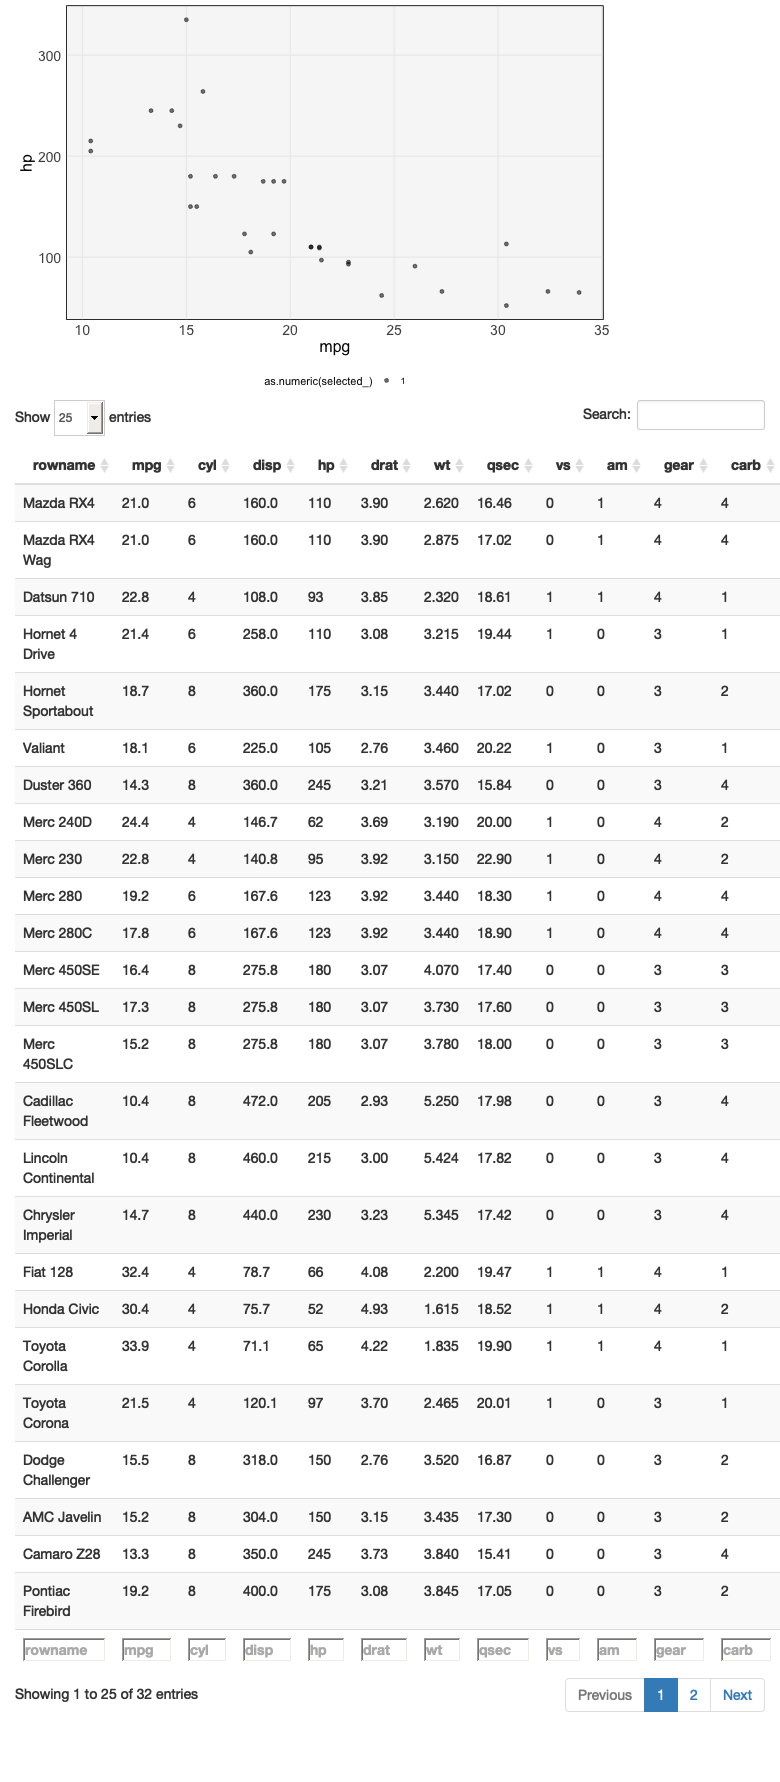
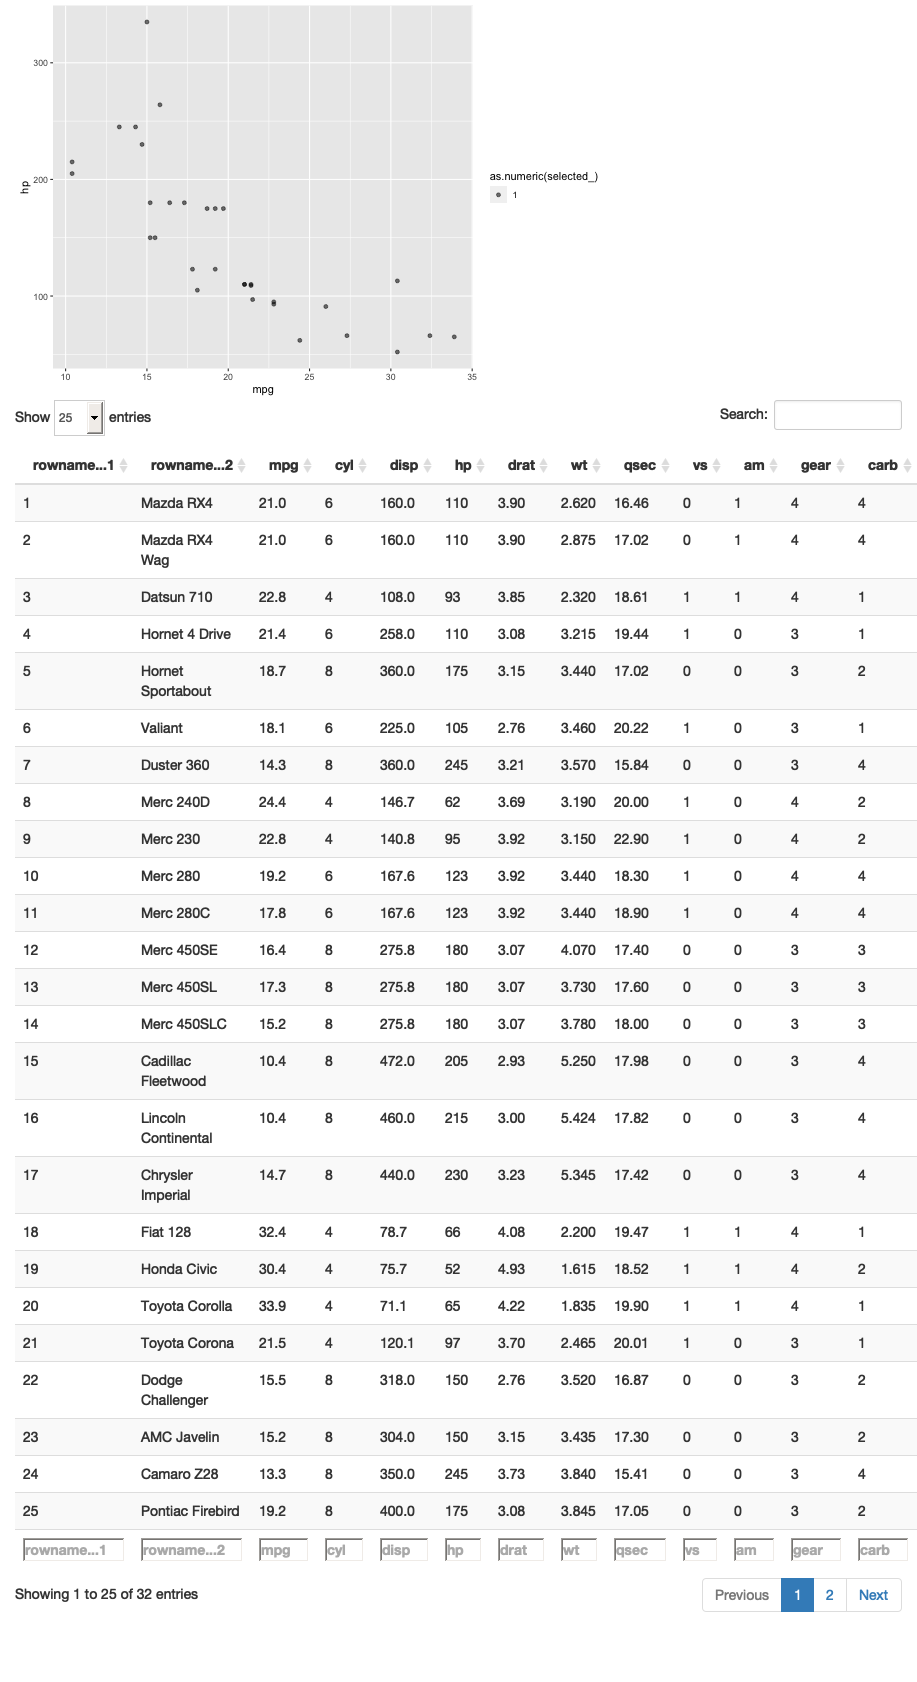
update links

diff --git a/docs/posts/2022-02-16-week05-02/index.html b/docs/posts/2022-02-16-week05-02/index.html
@@ -117,7 +117,7 @@ code span.wa { color: #5e5e5e; font-style: italic; } /* Warning */
 <!--/radix_placeholder_rmarkdown_metadata-->
   
   <script type="text/json" id="radix-resource-manifest">
-  {"type":"character","attributes":{},"value":["app3.png","app4.png","apps/app1.R","apps/app2.R","apps/app3.R","apps/app4.R","apps/app5.R","apps-pre/app1.R","apps-pre/app2.R","apps-pre/app3.R","apps-pre/app4.R","apps-pre/app5.R","apps-pre/app6.R","week05-02_files/anchor-4.2.2/anchor.min.js","week05-02_files/bowser-1.9.3/bowser.min.js","week05-02_files/distill-2.2.21/template.v2.js","week05-02_files/figure-html5/unnamed-chunk-4-1.png","week05-02_files/figure-html5/unnamed-chunk-6-1.png","week05-02_files/header-attrs-2.11/header-attrs.js","week05-02_files/jquery-3.6.0/jquery-3.6.0.js","week05-02_files/jquery-3.6.0/jquery-3.6.0.min.js","week05-02_files/jquery-3.6.0/jquery-3.6.0.min.map","week05-02_files/popper-2.6.0/popper.min.js","week05-02_files/tippy-6.2.7/tippy-bundle.umd.min.js","week05-02_files/tippy-6.2.7/tippy-light-border.css","week05-02_files/tippy-6.2.7/tippy.css","week05-02_files/tippy-6.2.7/tippy.umd.min.js","week05-02_files/webcomponents-2.0.0/webcomponents.js"]}
+  {"type":"character","attributes":{},"value":["app3.png","app4.png","apps/app3.R","apps/app4.R","apps-pre/app1.R","apps-pre/app2.R","apps-pre/app3.R","apps-pre/app4.R","apps-pre/app5.R","apps-pre/app6.R","week05-02_files/anchor-4.2.2/anchor.min.js","week05-02_files/bowser-1.9.3/bowser.min.js","week05-02_files/distill-2.2.21/template.v2.js","week05-02_files/figure-html5/unnamed-chunk-4-1.png","week05-02_files/figure-html5/unnamed-chunk-6-1.png","week05-02_files/header-attrs-2.11/header-attrs.js","week05-02_files/jquery-3.6.0/jquery-3.6.0.js","week05-02_files/jquery-3.6.0/jquery-3.6.0.min.js","week05-02_files/jquery-3.6.0/jquery-3.6.0.min.map","week05-02_files/popper-2.6.0/popper.min.js","week05-02_files/tippy-6.2.7/tippy-bundle.umd.min.js","week05-02_files/tippy-6.2.7/tippy-light-border.css","week05-02_files/tippy-6.2.7/tippy.css","week05-02_files/tippy-6.2.7/tippy.umd.min.js","week05-02_files/webcomponents-2.0.0/webcomponents.js"]}
   </script>
   <!--radix_placeholder_navigation_in_header-->
 <meta name="distill:offset" content="../.."/>
@@ -2292,7 +2292,7 @@ d-article ul > li { /*to add back in space between bullet items that I took away
 <div class="layout-chunk" data-layout="l-body">
 
 </div>
-<p><em><a href="https://mastering-shiny.org/action-graphics.html">Reading</a>, <a href="">Recording</a>, <a href="">Rmarkdown</a></em></p>
+<p><em><a href="https://mastering-shiny.org/action-graphics.html">Reading</a>, <a href="https://mediaspace.wisc.edu/media/Week%205%20%5B3%5D%20Graphical%20Queries%3A%20Brush%20Events/1_axw5u2pr">Recording</a>, <a href="https://github.com/krisrs1128/stat479_s22/tree/main/_posts/2022-02-16-week05-02">Rmarkdown</a></em></p>
 <ol type="1">
 <li><p>Click events are useful for referring to individual samples. However, they are not ideal for referring to groups of samples. In this case, a useful type of plot input is a <code>brush</code>. This is a selection that can be defined by clicking and dragging over a region.</p></li>
 <li><p>In shiny, brush events are treated similarly to click events. For example, to define a new brush input, we can set the <code>brush</code> argument to <code>plotOutput</code>.</p>
@@ -2303,8 +2303,7 @@ d-article ul > li { /*to add back in space between bullet items that I took away
  <span class='op'>)</span>
  </code></pre>
 </div>
-</div></li>
-</ol>
+</div>
 <p>Just like the <code>click</code> argument, the value <code>"plot_brush"</code> is an ID that can be used in the server. Also like in click events, we can setup an observer to change a reactive value every time a brush is drawn<a href="#fn1" class="footnote-ref" id="fnref1" role="doc-noteref"><sup>1</sup></a>. The general pattern is similar to what we had before,</p>
 <div class="layout-chunk" data-layout="l-body">
 <div class="sourceCode" id="cb1"><pre class="sourceCode r"><code class="sourceCode r"><span id="cb1-1"><a href="#cb1-1" aria-hidden="true" tabindex="-1"></a>server <span class="ot">&lt;-</span> <span class="cf">function</span>(input, output) {</span>
@@ -2314,27 +2313,27 @@ d-article ul > li { /*to add back in space between bullet items that I took away
 <span id="cb1-5"><a href="#cb1-5" aria-hidden="true" tabindex="-1"></a>    ... computation using get new_value ...</span>
 <span id="cb1-6"><a href="#cb1-6" aria-hidden="true" tabindex="-1"></a>    <span class="fu">selected</span>(new_value)</span>
 <span id="cb1-7"><a href="#cb1-7" aria-hidden="true" tabindex="-1"></a>  )</span>
-<span id="cb1-8"><a href="#cb1-8" aria-hidden="true" tabindex="-1"></a>  </span>
+<span id="cb1-8"><a href="#cb1-8" aria-hidden="true" tabindex="-1"></a></span>
 <span id="cb1-9"><a href="#cb1-9" aria-hidden="true" tabindex="-1"></a>  output<span class="sc">$</span>plot <span class="ot">&lt;-</span> <span class="fu">renderPlot</span>(... use <span class="fu">scatter</span>() reactive val...)</span>
 <span id="cb1-10"><a href="#cb1-10" aria-hidden="true" tabindex="-1"></a>}</span></code></pre></div>
-</div>
-<ol type="1">
+</div></li>
 <li><p>The example below is similar to the <code>plot_click</code> example from the previous notes. Instead of sorting points by proximity to the click, though, prints the subset of rows that have been currently brushed.</p>
 <div class="layout-chunk" data-layout="l-body">
 <div class="sourceCode">
 <pre class="sourceCode r"><code class="sourceCode r"><span class='kw'><a href='https://rdrr.io/r/base/library.html'>library</a></span><span class='op'>(</span><span class='va'><a href='https://tidyverse.tidyverse.org'>tidyverse</a></span><span class='op'>)</span>
  <span class='kw'><a href='https://rdrr.io/r/base/library.html'>library</a></span><span class='op'>(</span><span class='va'><a href='https://shiny.rstudio.com/'>shiny</a></span><span class='op'>)</span>
- <span class='va'>mtcars</span> <span class='op'>&lt;-</span> <span class='fu'><a href='https://dplyr.tidyverse.org/reference/add_rownames.html'>add_rownames</a></span><span class='op'>(</span><span class='va'>mtcars</span><span class='op'>)</span>
+ <span class='va'>mtcars</span> <span class='op'>&lt;-</span> <span class='fu'>add_rownames</span><span class='op'>(</span><span class='va'>mtcars</span><span class='op'>)</span>
 
  <span class='va'>reset_selection</span> <span class='op'>&lt;-</span> <span class='kw'>function</span><span class='op'>(</span><span class='va'>x</span>, <span class='va'>brush</span><span class='op'>)</span> <span class='op'>{</span>
    <span class='fu'><a href='https://rdrr.io/pkg/shiny/man/brushedPoints.html'>brushedPoints</a></span><span class='op'>(</span><span class='va'>x</span>, <span class='va'>brush</span>, allRows <span class='op'>=</span> <span class='cn'>TRUE</span><span class='op'>)</span><span class='op'>$</span><span class='va'>selected_</span>
  <span class='op'>}</span>
 
- <span class='va'>make_scatter</span> <span class='op'>&lt;-</span> <span class='kw'>function</span><span class='op'>(</span><span class='va'>x</span>, <span class='va'>selected_</span><span class='op'>)</span> <span class='op'>{</span>
-   <span class='va'>x</span><span class='op'>$</span><span class='va'>selected_</span> <span class='op'>&lt;-</span> <span class='va'>selected_</span>
-   <span class='fu'><a href='https://ggplot2.tidyverse.org/reference/ggplot.html'>ggplot</a></span><span class='op'>(</span><span class='va'>x</span><span class='op'>)</span> <span class='op'>+</span>
-     <span class='fu'><a href='https://ggplot2.tidyverse.org/reference/geom_point.html'>geom_point</a></span><span class='op'>(</span><span class='fu'><a href='https://ggplot2.tidyverse.org/reference/aes.html'>aes</a></span><span class='op'>(</span><span class='va'>mpg</span>, <span class='va'>hp</span>, alpha <span class='op'>=</span> <span class='fu'><a href='https://rdrr.io/r/base/numeric.html'>as.numeric</a></span><span class='op'>(</span><span class='va'>selected_</span><span class='op'>)</span><span class='op'>)</span><span class='op'>)</span> <span class='op'>+</span>
-     <span class='fu'><a href='https://ggplot2.tidyverse.org/reference/scale_alpha.html'>scale_alpha</a></span><span class='op'>(</span>range <span class='op'>=</span> <span class='fu'><a href='https://rdrr.io/r/base/c.html'>c</a></span><span class='op'>(</span><span class='fl'>0.1</span>, <span class='fl'>1</span><span class='op'>)</span><span class='op'>)</span>
+ <span class='va'>scatter</span> <span class='op'>&lt;-</span> <span class='kw'>function</span><span class='op'>(</span><span class='va'>x</span>, <span class='va'>selected_</span><span class='op'>)</span> <span class='op'>{</span>
+   <span class='va'>x</span> <span class='op'>%&gt;%</span>
+     <span class='fu'>mutate</span><span class='op'>(</span>selected_ <span class='op'>=</span> <span class='va'>selected_</span><span class='op'>)</span> <span class='op'>%&gt;%</span>
+     <span class='fu'>ggplot</span><span class='op'>(</span><span class='op'>)</span> <span class='op'>+</span>
+     <span class='fu'>geom_point</span><span class='op'>(</span><span class='fu'>aes</span><span class='op'>(</span><span class='va'>mpg</span>, <span class='va'>hp</span>, alpha <span class='op'>=</span> <span class='fu'><a href='https://rdrr.io/r/base/numeric.html'>as.numeric</a></span><span class='op'>(</span><span class='va'>selected_</span><span class='op'>)</span><span class='op'>)</span><span class='op'>)</span> <span class='op'>+</span>
+     <span class='fu'>scale_alpha</span><span class='op'>(</span>range <span class='op'>=</span> <span class='fu'><a href='https://rdrr.io/r/base/c.html'>c</a></span><span class='op'>(</span><span class='fl'>0.1</span>, <span class='fl'>1</span><span class='op'>)</span><span class='op'>)</span>
  <span class='op'>}</span>
 
  <span class='va'>ui</span> <span class='op'>&lt;-</span> <span class='fu'><a href='https://rdrr.io/pkg/shiny/man/fluidPage.html'>fluidPage</a></span><span class='op'>(</span>
@@ -2349,8 +2348,8 @@ d-article ul > li { /*to add back in space between bullet items that I took away
      <span class='fu'>selected</span><span class='op'>(</span><span class='fu'>reset_selection</span><span class='op'>(</span><span class='va'>mtcars</span>, <span class='va'>input</span><span class='op'>$</span><span class='va'>plot_brush</span><span class='op'>)</span><span class='op'>)</span>
    <span class='op'>)</span>
 
-   <span class='va'>output</span><span class='op'>$</span><span class='va'>plot</span> <span class='op'>&lt;-</span> <span class='fu'><a href='https://rdrr.io/pkg/shiny/man/renderPlot.html'>renderPlot</a></span><span class='op'>(</span><span class='fu'>make_scatter</span><span class='op'>(</span><span class='va'>mtcars</span>, <span class='fu'>selected</span><span class='op'>(</span><span class='op'>)</span><span class='op'>)</span><span class='op'>)</span>
-   <span class='va'>output</span><span class='op'>$</span><span class='va'>table</span> <span class='op'>&lt;-</span> <span class='fu'><a href='https://rdrr.io/pkg/shiny/man/renderDataTable.html'>renderDataTable</a></span><span class='op'>(</span><span class='fu'><a href='https://dplyr.tidyverse.org/reference/filter.html'>filter</a></span><span class='op'>(</span><span class='va'>mtcars</span>, <span class='fu'>selected</span><span class='op'>(</span><span class='op'>)</span><span class='op'>)</span><span class='op'>)</span>
+   <span class='va'>output</span><span class='op'>$</span><span class='va'>plot</span> <span class='op'>&lt;-</span> <span class='fu'><a href='https://rdrr.io/pkg/shiny/man/renderPlot.html'>renderPlot</a></span><span class='op'>(</span><span class='fu'>scatter</span><span class='op'>(</span><span class='va'>mtcars</span>, <span class='fu'>selected</span><span class='op'>(</span><span class='op'>)</span><span class='op'>)</span><span class='op'>)</span>
+   <span class='va'>output</span><span class='op'>$</span><span class='va'>table</span> <span class='op'>&lt;-</span> <span class='fu'><a href='https://rdrr.io/pkg/shiny/man/renderDataTable.html'>renderDataTable</a></span><span class='op'>(</span><span class='fu'><a href='https://rdrr.io/r/stats/filter.html'>filter</a></span><span class='op'>(</span><span class='va'>mtcars</span>, <span class='fu'>selected</span><span class='op'>(</span><span class='op'>)</span><span class='op'>)</span><span class='op'>)</span>
  <span class='op'>}</span>
 
  <span class='fu'><a href='https://rdrr.io/pkg/shiny/man/shinyApp.html'>shinyApp</a></span><span class='op'>(</span><span class='va'>ui</span>, <span class='va'>server</span><span class='op'>)</span>

diff --git a/docs/posts/2022-02-16-week05-01/index.html b/docs/posts/2022-02-16-week05-01/index.html
@@ -2292,7 +2292,7 @@ d-article ul > li { /*to add back in space between bullet items that I took away
 <div class="layout-chunk" data-layout="l-body">
 
 </div>
-<p><em><a href="https://mastering-shiny.org/action-graphics.html">Reading</a>, <a href="">Recording</a>, <a href="">Rmarkdown</a></em></p>
+<p><em><a href="https://mastering-shiny.org/action-graphics.html">Reading</a>, <a href="https://mediaspace.wisc.edu/media/Week%205%20%5B2%5D%20Graphical%20Queries%3A%20Click%20Events/1_lmlkeubk">Recording</a>, <a href="https://github.com/krisrs1128/stat479_s22/tree/main/_posts/2022-02-16-week05-01">Rmarkdown</a></em></p>
 <ol type="1">
 <li><p>Some of the most sophisticated interactive data visualizations are based on the idea that user queries can themselves be defined visually. For example, to select a date range, we could directly interact with a time series plot, rather than relying on a slider input. Or, instead of a long dropdown menu of items, a user could select items by clicking on bars in a bar plot. There are many variations of this idea, but they all leverage graphical (rather than textual) displays to define queries. The advantage of this approach is that it increases information density – the selection inputs themselves encode data.</p></li>
 <li><p>To implement this in Shiny, we first need a way of registering user interactions on plots themselves. We will consider two types of plot interaction mechanisms: clicks and brushes. These can be specified by adding <code>click</code> or <code>brush</code> events to <code>plotOutput</code> objects.</p></li>
